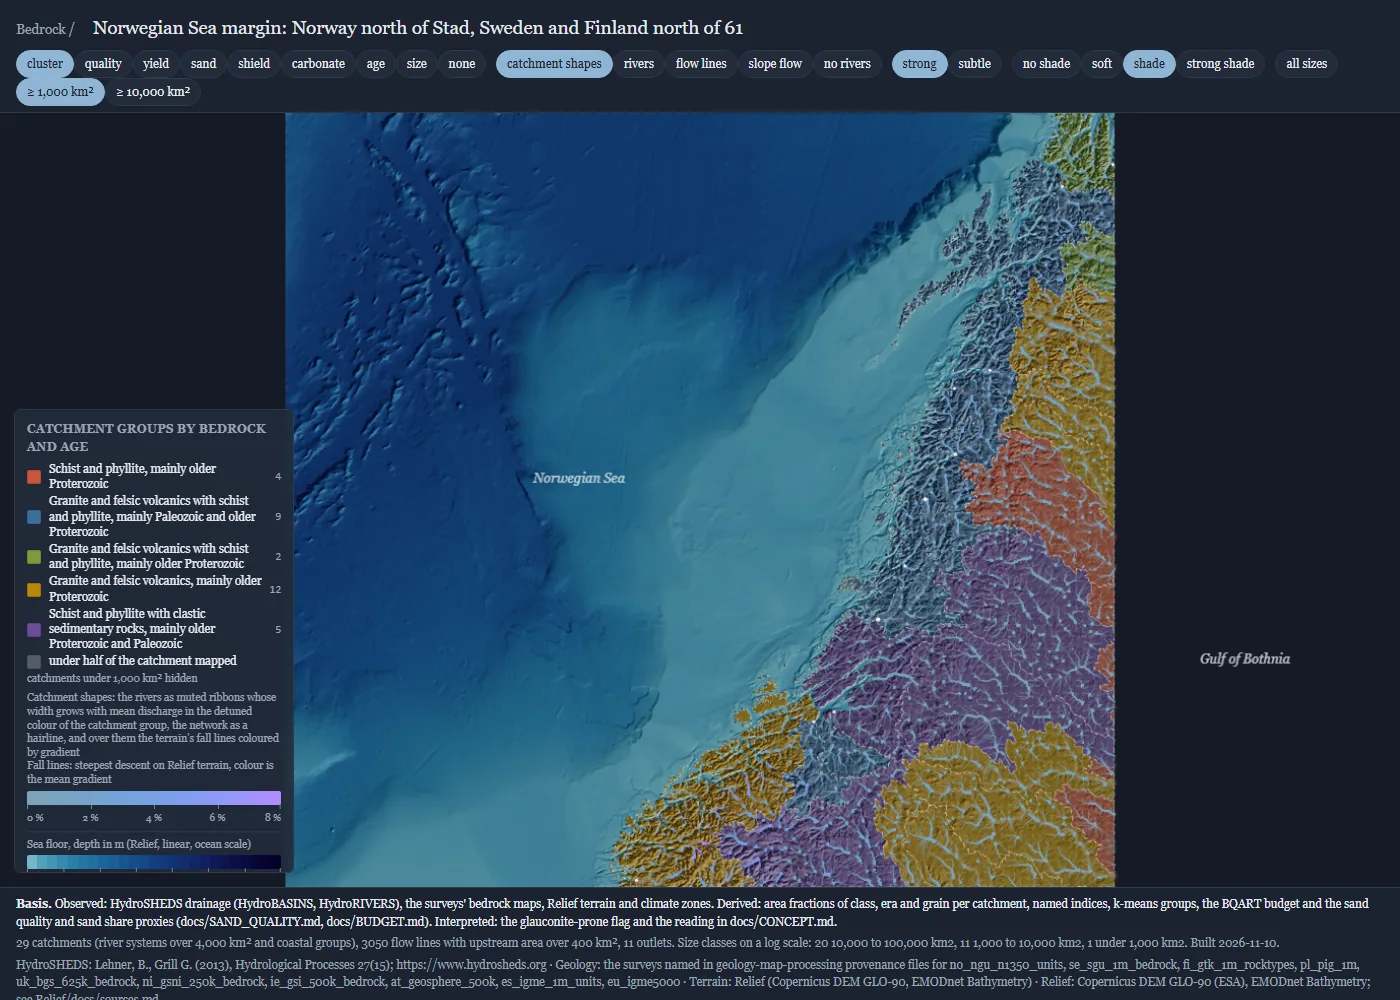
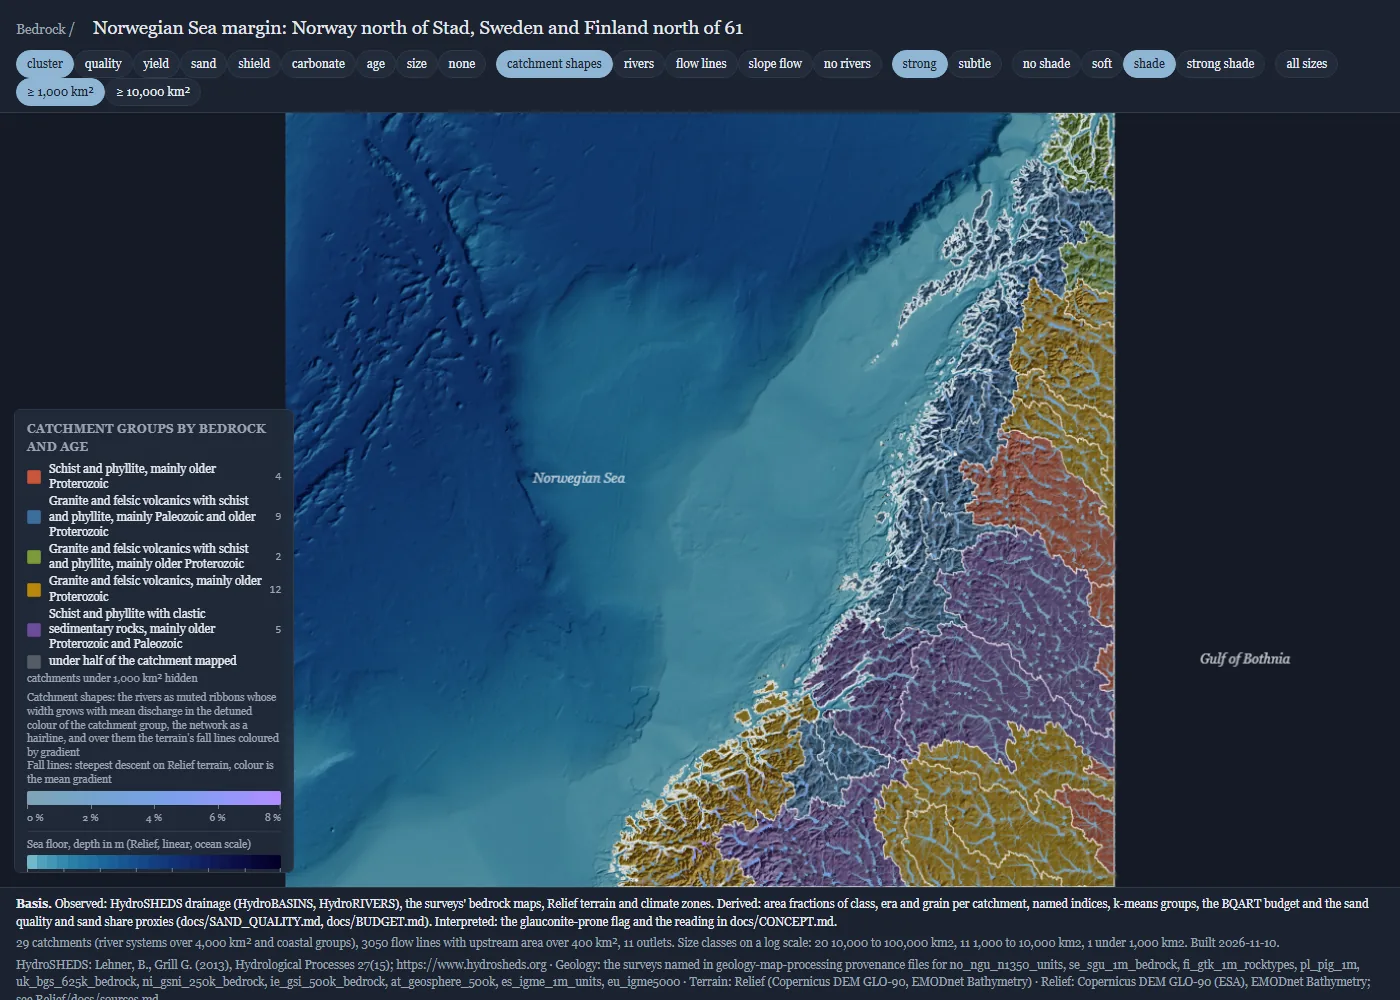
Catchment divides as solid black lines, a little thicker; screenshots refreshed
Claude-Session: https://claude.ai/code/session_01XvpqcX8HdSbCdMgD8MUffi

diff --git a/site/s2s.js b/site/s2s.js
@@ -132,7 +132,8 @@ function fillOf(p) {
 }
 const alphaFill = (c, a) => { const k = d3.color(c); if (!k) return c; k.opacity = a; return k.formatRgb(); };
 const inkRiver = () => ink === "strong" ? (dark ? "rgba(160,205,255,.9)" : "rgba(30,80,140,.85)") : (dark ? "rgba(190,200,215,.45)" : "rgba(70,90,110,.42)");
-const inkEdge = () => ink === "strong" ? (dark ? "rgba(255,255,255,.4)" : "rgba(40,40,40,.5)") : (dark ? "rgba(255,255,255,.18)" : "rgba(60,60,60,.22)");
+// strong ink: solid black divides (near-white on the dark scheme); subtle ink: a thin dashed grey
+const inkEdge = () => ink === "strong" ? (dark ? "rgba(255,255,255,.75)" : "rgba(0,0,0,.85)") : (dark ? "rgba(255,255,255,.18)" : "rgba(60,60,60,.22)");
 
 let proj, path, W, H;
 function render() {
@@ -151,7 +152,7 @@ function render() {
   const shown = systems.filter(f => visible(f.properties));
   const fa = ink === "strong" ? (dark ? 0.55 : 0.5) : (dark ? 0.35 : 0.3);
   for (const f of shown) { const c = fillOf(f.properties); if (!c) continue; ctx.beginPath(); path(f); ctx.fillStyle = alphaFill(c, fa); ctx.fill(); }
-  ctx.save(); ctx.setLineDash(ink === "strong" ? [5, 3] : [3, 3]); ctx.beginPath(); for (const f of shown) path(f); ctx.strokeStyle = inkEdge(); ctx.lineWidth = ink === "strong" ? 0.9 : 0.55; ctx.stroke(); ctx.restore();
+  ctx.save(); if (ink !== "strong") ctx.setLineDash([3, 3]); ctx.beginPath(); for (const f of shown) path(f); ctx.strokeStyle = inkEdge(); ctx.lineWidth = ink === "strong" ? 1.3 : 0.55; ctx.lineJoin = "round"; ctx.stroke(); ctx.restore();
   // hillshade multiplied over the fills so the terrain shows through
   if (hillT && shade > 0) { ctx.save(); ctx.globalCompositeOperation = "soft-light"; ctx.globalAlpha = Math.min(1, shade); ctx.drawImage(hillT, px0, py0, px1 - px0, py1 - py0); if (shade > 1) { ctx.drawImage(hillT, px0, py0, px1 - px0, py1 - py0); ctx.globalCompositeOperation = "multiply"; ctx.globalAlpha = (shade - 1) * 0.6; ctx.drawImage(hillT, px0, py0, px1 - px0, py1 - py0); } ctx.restore(); }
   // rivers
